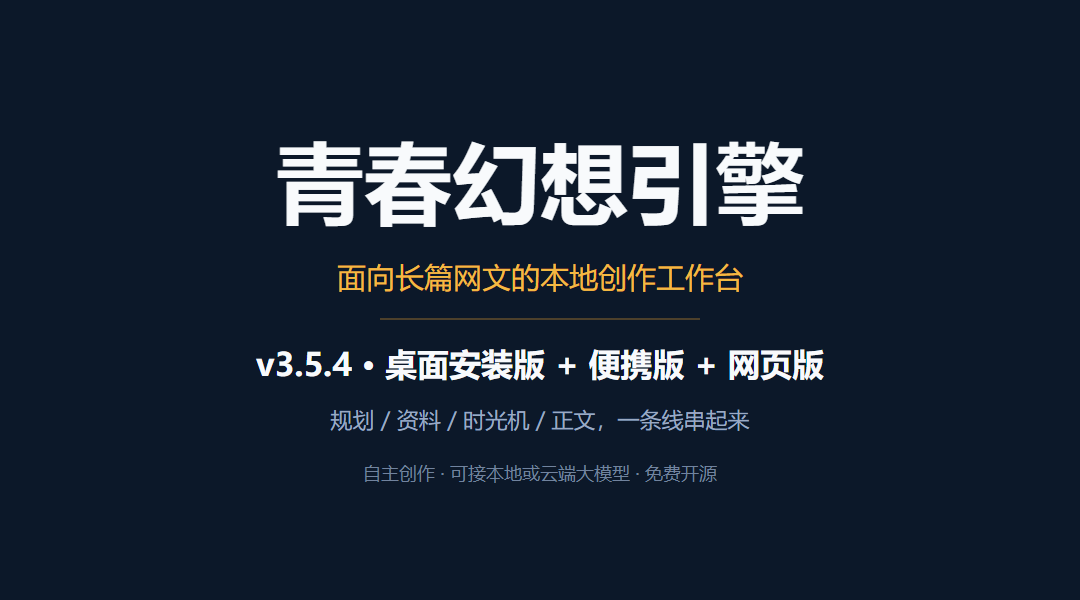
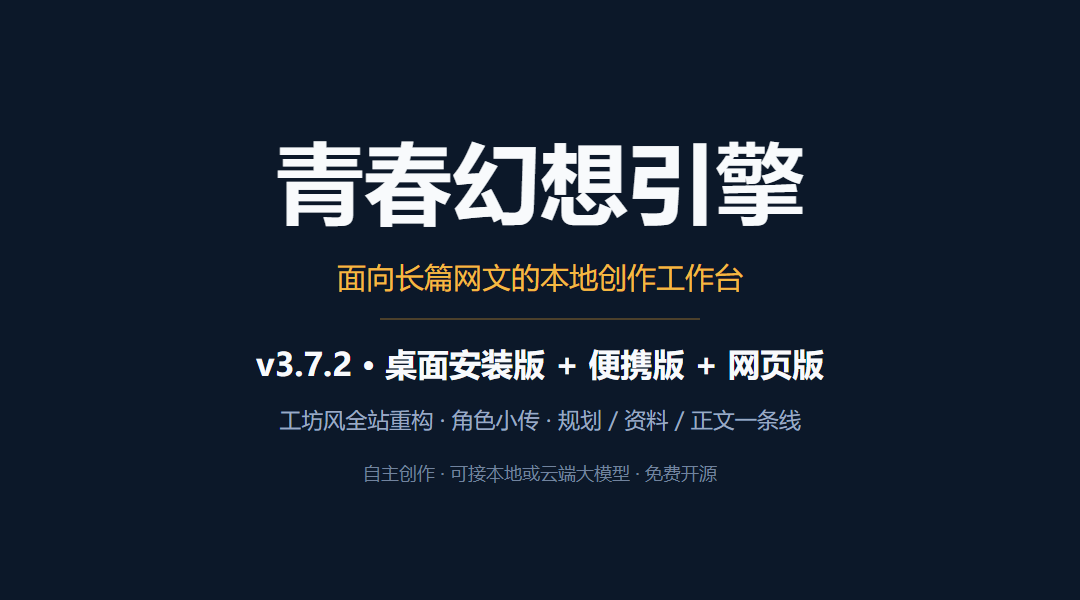
release(3.7.2): 修复六维审计项，更新 README、截图与 3.7.2 发布说明

Changed region(s): [[0.2444, 0.66, 0.7639, 0.72], [0.275, 0.57, 0.3361, 0.63]]

diff --git a/src/components/editor/NovelEditor.tsx b/src/components/editor/NovelEditor.tsx
@@ -611,35 +611,35 @@ export default function NovelEditor({ onStatsChange, onNavigate, onOpenSearch, p
               >
                 <Redo2 size={14} />
               </Button>
-              <Button variant="ghost" size="sm" aria-pressed={jieWenJiOpen}
+              <Button variant="bare" aria-pressed={jieWenJiOpen}
                 data-guide="jiewenji-entry"
                 onClick={() => setJieWenJiOpen(o => !o)}
-                className={`shrink-0 ${jieWenJiOpen ? '!bg-amber/12 !text-amber border !border-amber/30' : 'text-ink-300 hover:text-amber'}`}
+                className={`h-8 px-3 text-12 border shrink-0 ${jieWenJiOpen ? 'bg-amber/12 text-amber border-amber/30' : 'border-transparent text-ink-300 hover:text-amber hover:bg-ink-800/70'}`}
                 title="颉文姬 · AI 编辑：校对 / 综合诊断 / 选区改稿 / 审读 / 写作简报 / 本章设定补登（AI 增强需配模型）"
               >
                 <Wand2 size={14} /> 颉文姬
               </Button>
               {companionTools}
               <div className="w-px h-4 bg-ink-700/60 mx-0.5" />
-              <Button variant="ghost" size="sm" aria-pressed={showRefs} data-refs-trigger onClick={() => afterSearchSubmit(() => setShowRefs(o => !o))} className={`shrink-0 ${showRefs ? '!bg-amber/12 !text-amber border !border-amber/30' : 'text-ink-300 hover:text-amber'}`} title="本章资料：查看细纲、固定资料与正文引用">
+              <Button variant="bare" aria-pressed={showRefs} data-refs-trigger onClick={() => afterSearchSubmit(() => setShowRefs(o => !o))} className={`h-8 px-3 text-12 border shrink-0 ${showRefs ? 'bg-amber/12 text-amber border-amber/30' : 'border-transparent text-ink-300 hover:text-amber hover:bg-ink-800/70'}`} title="本章资料：查看细纲、固定资料与正文引用">
                 <Users size={14} /> 本章资料
               </Button>
               {secondaryTools}
-              <Button variant="ghost" size="sm" aria-pressed={searchVisible || searchDrawer}
+              <Button variant="bare" aria-pressed={searchVisible || searchDrawer}
                 onClick={() => afterSearchSubmit(() => {
                   if (showRefs) setShowRefs(false)
                   else if (!searchFits) setSearchDrawer(true)
                   else setShowSearch(!showSearch)
                 })}
-                className={`shrink-0 ${searchVisible || searchDrawer ? '!text-ink-100 !bg-ink-800/60' : 'text-ink-300'}`}
+                className={`h-8 px-3 text-12 border shrink-0 ${searchVisible || searchDrawer ? 'text-ink-100 bg-ink-800/60 border-transparent' : 'border-transparent text-ink-300 hover:text-ink-100 hover:bg-ink-800/70'}`}
                 title={showRefs ? '收起本章资料并恢复设定检索栏' : !searchFits ? '打开设定检索' : showSearch ? '隐藏设定检索栏' : '显示设定检索栏'}>
                 {/* 🔴 2026-11-15：lucide 的命名与箭头方向相反 —— PanelRightClose 实际画的是「→」，
                     PanelRightOpen 画的是「←」。按作者口径：展开时给「←」（点它收起），隐藏时给「→」（点它展开）。 */}
                 {searchVisible ? <PanelRightOpen size={14} /> : <PanelRightClose size={14} />} 设定检索
               </Button>
-              <Button variant="ghost" size="sm" aria-pressed={focusMode}
+              <Button variant="bare" aria-pressed={focusMode}
                 onClick={() => afterSearchSubmit(() => setFocusMode(!focusMode))}
-                className={`shrink-0 ${focusMode ? '!bg-amber/12 !text-amber border !border-amber/30' : 'text-ink-300'}`}
+                className={`h-8 px-3 text-12 border shrink-0 ${focusMode ? 'bg-amber/12 text-amber border-amber/30' : 'border-transparent text-ink-300 hover:text-ink-100 hover:bg-ink-800/70'}`}
                 title={focusMode ? '退出专注模式' : '专注模式'}>
                 {focusMode ? <Minimize2 size={14} /> : <Maximize2 size={14} />} {focusMode ? '退出专注' : '专注'}
               </Button>

diff --git a/src/components/app/Sidebar.tsx b/src/components/app/Sidebar.tsx
@@ -364,15 +364,7 @@ export default function Sidebar({ activeTab, onNavigate, focusGroup, navMode = '
             <span className="text-11 font-semibold text-ink-400 tracking-wide truncate">
               {navMode === 'focus' ? focusGroup : '全部目录'}
             </span>
-            <Button
-              variant="ghost"
-              size="xs"
-              onClick={onToggleNavMode}
-              title={navMode === 'focus' ? '展开全部功能目录' : '仅看当前所选分组'}
-              className="!h-5 !px-1.5 !text-10 text-ink-400 hover:text-ink-100 shrink-0"
-            >
-              {navMode === 'focus' ? '全部目录' : '仅当前组'}
-            </Button>
+            <Button variant="bare" onClick={onToggleNavMode} title={navMode === 'focus' ? '展开全部功能目录' : '仅看当前所选分组'} className="h-5 px-1.5 rounded-md text-10 text-ink-400 hover:text-ink-100 hover:bg-ink-800/70 shrink-0">{navMode === 'focus' ? '全部目录' : '仅当前组'}</Button>
           </div>
         )}
         {GROUPS.map(group => {
@@ -505,8 +497,8 @@ export default function Sidebar({ activeTab, onNavigate, focusGroup, navMode = '
         ref={flyoutRef}
         role="region"
         aria-label="界面与数据设置面板"
-        className={`fixed left-12 bottom-0 max-h-[min(78vh,calc(100vh-3.5rem))] rounded-tr-xl border-t border-r border-ink-700/80 bg-ink-900/98 backdrop-blur-md shadow-2xl ws-surface ws-flyout-right flex flex-col overflow-hidden ${toolsOpen ? '' : 'hidden'}`}
-        style={{ zIndex: Z.dropdown, width: collapsed ? '224px' : `min(${sidebar.size}px, ${foldVh('35vw')})`, minWidth: 224 }}
+        className={`fixed left-12 bottom-0 rounded-tr-xl border-t border-r border-ink-700/80 bg-ink-900/98 backdrop-blur-md shadow-2xl ws-surface ws-flyout-right flex flex-col overflow-hidden ${toolsOpen ? '' : 'hidden'}`}
+        style={{ zIndex: Z.dropdown, width: collapsed ? '224px' : `min(${sidebar.size}px, ${foldVh('35vw')})`, minWidth: 224, maxHeight: `min(${foldVh('78vh')}, calc(${foldVh('100vh')} - 3.5rem))` }}
       >
         <div className="h-10 shrink-0 px-3 border-b border-ink-700/70 flex items-center justify-between gap-2">
           <span className="text-12 font-semibold text-ink-200 tracking-wide">界面与数据</span>

diff --git a/README.md b/README.md
@@ -6,14 +6,15 @@
 
 **把世界观、角色、大纲、正文串成一条线的长篇创作工作台**
 
-桌面版（Windows）｜ 便携版（U 盘即走）｜ **网页版**（浏览器直接用） ｜ 当前源码版本 `v3.7.1`
+桌面版（Windows）｜ 便携版（U 盘即走）｜ **网页版**（浏览器直接用） ｜ 当前源码版本 `v3.7.2`
 
 📦 仓库：[Gitee](https://gitee.com/tgxy2026/youth-fantasy-engine)　｜　[GitHub](https://github.com/tgxy2026/youth-fantasy-engine)　｜　⬇ 下载：[Gitee Releases](https://gitee.com/tgxy2026/youth-fantasy-engine/releases)　｜　[GitHub Releases](https://github.com/tgxy2026/youth-fantasy-engine/releases)
 
 🖥 三种形态：**桌面安装版**（免 Node，双击安装）　｜　**便携版**（U 盘即走，需 Node.js）　｜　**网页版**（免安装，游客本地存 / 登录账号云端存）
 🌐 网页版直达：<https://youth-fantasy-engine.online>（浏览器打开就能写，不用装任何东西）
 🔗 3.3.2 起：**同一个账号，桌面、网页、换台电脑，接着上一句写**（云端作品库 · 逐本自动同步 · 冲突由你选 · 删了能捞回）
-📌 3.7.1：**给人物单开一页小传**（上层写传记 · 下层排节点轴 · 从状态演变一键提拔 · AI 整理只追加不覆盖）
+📌 3.7.2：**工坊风全站界面统一**（三形态暗黑曜石视觉 · 48px 顶栏对齐 · 左下角自适应设置浮窗）· **全站文案与 AI 提示词精修** · **软件内补全 3.7.x 更新说明**
+📌 3.7.1 起：**给人物单开一页小传**（上层写传记 · 下层排节点轴 · 从状态演变一键提拔 · AI 整理只追加不覆盖）
 📌 3.7.0 起：**大纲改了系统记得住**（未来章待重审 · 已写章只列建议 · 候选主动过期）· **物品与状态按章回溯** · **节奏曲线与投稿体检**（只摆事实，不评分）· **语音灵感**（需自备 OpenAI 兼容转写服务）
 
 </div>
@@ -91,6 +92,7 @@
 - **一键拆书** —— 丢一本参考书进去，自动抽取人物、关系、设定，做成你自己的素材库。
 - **酒馆模式** —— 让 AI 扮演你书里的角色跟你对话、推演剧情，用来找感觉、验人设。
 - **伴写建议** —— 正文编辑时给出「下一句可以怎么写」的建议，你采纳或忽略，它不会替你写。
+- **工坊风工作台界面**（3.7.2）—— 左侧图标轨 + 可收起目录侧栏 + 48px 顶栏横线统一对齐，左下角设置面板从左往右弹出且自适应不越界，网页登录页与全站 57 个页签保持一致视觉层级。
 - **角色小传，一个人一页**（3.7.1）—— 上层写完整传记、下层按「前传 / 第 N 章」排节点，带章号的节点能跳回原文；已有的状态演变可以一键提拔成节点，AI 整理只追加、不覆盖。
 - **大纲改了，后面会提醒你**（3.7.0）—— 总纲 / 卷纲 / 细纲改动后，未开写的章纲打「待重审」并附改前改后片段；已写章只列建议复核，系统不动你的章纲。
 - **物品与状态能按章回溯**（3.7.0）—— 物品流转必须带正文原句才能记账，人物状态变化留旧值，随时能问「第 N 章时是什么状态」。
@@ -182,7 +184,7 @@ npm run build:desktop  # 产物输出到 release/ 目录
 
 ## 升级与数据迁移
 
-### 当前版本（3.4.x – 3.6.x → 3.7.0）：直接覆盖安装
+### 当前版本（3.4.x – 3.7.1 → 3.7.2）：直接覆盖安装
 
 - **桌面安装版**：直接覆盖安装。程序数据在独立目录（`%APPDATA%\youth-fantasy-engine`），不会被安装包覆盖；
 - **便携版**：解压新包后，把旧包的 `data/` 目录整体拷进新包同级位置；
@@ -190,9 +192,9 @@ npm run build:desktop  # 产物输出到 release/ 目录
 
 3.4.0 起的章节收藏集、导出方案、命名快照都带旧数据默认值；3.4.1 只改提示词文本与审计工具，没有数据结构变更；3.4.2 的 `protocol` 是**可选字段**，旧模型配置读进来按原 `type` 自动补默认值。3.5.x 同样没有破坏性结构变更：3.5.0 的投稿广场与码字排行是**新增**能力（便携版不启用），3.5.1 只改前端引导与版式，3.5.2 的昵称冷却时间戳与 3.5.3 的排行日结口径只影响服务端记录，3.5.4–3.5.6 的 ACP 配置是按适配器**新写入**的独立设置。
 
-3.6.x 与 3.7.0 也是覆盖安装即可：3.6.0 的成果记录、拆书范围说明属于新增字段（指向不存在章节的成果会标 `missing` 并降为草稿，不静默丢弃）；3.6.1 起搜索替换、颉文姬面板位置都是界面层改动；3.6.2 的投稿合集与浏览量、3.6.3 的思考型模型采样参数处理只影响请求与展示；**3.7.0 的大纲级联标记、物品流转账本、状态演变记录、节奏指标与投稿体检结果都是新增存储**，旧项目打开时按需创建，读不到就按空处理、不会写坏原有内容。
+3.6.x 与 3.7.x 也是覆盖安装即可：3.6.0 的成果记录、拆书范围说明属于新增字段（指向不存在章节的成果会标 `missing` 并降为草稿，不静默丢弃）；3.6.1 起搜索替换、颉文姬面板位置都是界面层改动；3.6.2 的投稿合集与浏览量、3.6.3 的思考型模型采样参数处理只影响请求与展示；**3.7.0 的大纲级联标记、物品流转账本、状态演变记录、节奏指标与投稿体检结果都是新增存储**，旧项目打开时按需创建，读不到就按空处理、不会写坏原有内容；3.7.1 的角色小传与 3.7.2 的工坊风全站重构、文案与提示词精修均不改变原有存储格式。
 
-整体上从 3.4.x 升级到 3.7.0 属于覆盖安装即可，回退时旧版本读不懂的新字段只会被忽略，不会导致打不开。
+整体上从 3.4.x 升级到 3.7.2 属于覆盖安装即可，回退时旧版本读不懂的新字段只会被忽略，不会导致打不开。
 
 ### 历史迁移：2.x → 3.0.0（改名与数据目录）
 
@@ -230,7 +232,7 @@ npm run build:desktop  # 产物输出到 release/ 目录
 </tr>
 </table>
 
-> 截图拍摄于 3.4.0 正式版、软件内置的示范项目《吞天神脉》，实机截取、未做美化。3.5.0 起的「投稿广场」页签、3.5.4 起的 ACP 设置，以及 3.7.0 的**页签页头统一**（标题 20px / 半粗、说明 13px 单行省略、吸顶浅底与细分隔线）都未出现在图中，界面细节请以当前版本为准。
+> 以上截图拍摄于 3.7.2 正式版工坊风界面、软件内置示范项目《吞天神脉》，实机截取、未做美化。不同主题与窗口缩放比例下细节会随设定自适应调整。
 
 ---
 
@@ -420,14 +422,15 @@ youth-fantasy-engine/
 | **3.6.3** | **接思考型模型不再被参数卡死**：Kimi `kimi-k2.* / kimi-k3`、o1 / gpt-5 / deepseek-r1 这类把采样参数锁死的模型，本软件此前不管接谁都带温度，于是 `400 invalid temperature`。三层防线：**按模型名识别**（命中即不发温度 / top_p / 惩罚，而不是改成 1）+ **作者开关**（模型编辑里可手动勾「不发送采样参数」）+ **会话记忆**（撞一次 400 后本会话记住，不再每次都多打一次）。**数据格式没有变化**，覆盖安装即可。详见 [3.6.3 更新说明](docs/归档/3.6/3.6.3-更新说明-2026-11-23.md)。 |
 | **3.7.0** | **正史变了，系统记得住**：**大纲改动 → 未来章待重审**（附「改前 → 改后」引用片段，核对完点「已处理」；系统不改你的章纲）+ **已写章只列建议** + **候选 / 报告主动过期**（正文、细纲、本章固定资料任一变化就标「已过期」并写原因，只提示不自动改卡）+ **物品流转账本**（必须带正文原句才能勾选写入，图鉴物品新增「流转记录」）+ **状态演变按章回溯**（旧值留痕，`stateAt` 回溯到第 N 章）+ **全书逐章节奏曲线**（字数 / 对话占比 / 段长 / 距上个爽点，不合成总分、不排名次）+ **投稿体检一页**（汇总已跑过的结论，没跑过的写「未跑」，可存 JSON）+ **语音灵感**（需自备 OpenAI 兼容 `/audio/transcriptions`，音频不留存）+ EPUB 导出含未分卷章节 + 页签页头统一。⚠ 语音转写真机仍需你自备可用 Key。详见 [3.7.0 更新说明](docs/归档/3.7/3.7.0-更新说明-2026-11-23.md)。 |
 | **3.7.1** | **给人物单开一页小传**：角色管理下新增「**角色小传**」页签（默认勾选，可在项目设置里取消）—— 上层小传正文随便分段，下层「重要节点事件轴」分「开篇前（前传）」与「正文第 N 章」，前传节点可手动调序、带章号节点按章号升序且能点「原文」跳回那一章；已有 **3.7.0 状态演变可零消耗提拔**成节点，AI 从正文整理 / 颉文姬「整理」抽出里程碑候选**只追加不覆盖**，AI 起草与续写只出预览，单角色可导出 Markdown；**图鉴详情面板可直接编辑跨表与角色关联**、保密等级每个选项补了说明；角色小传与角色关系的布局与按钮规范统一（带文字按钮不再用幽灵样式）、节点类型支持自定义、示范项目补齐 11 名角色小传；修掉角色卡跳转与选择逻辑、按别称搜索时与小传条目对不上且折叠状态错乱。**数据格式没有变化**，覆盖安装即可。详见 [3.7.1 更新说明](docs/归档/3.7/3.7.1-更新说明-2026-11-25.md)。 |
+| **3.7.2** | **工坊风全站界面统一 + 全项目文案与内置 AI 提示词精修 + 软件内更新说明补全**：三形态（桌面 / 便携 / 网页）包括网页版登录 / 重置密码页全面接入暗黑曜石工坊风体系；左侧图标轨、可收起目录侧栏与编辑区顶部横线齐平到 `48px` 基准；左下角「界面与数据」设置窗改为从左往右弹出且宽度自适应不越界；「关于打赏」改为对称铺满布局；统一全站 57 页签页头按钮高度与对比度并完成多缩放比例复核；全面纠偏与润色全站 UI 文案，并结合当前实践升级去 AI 味、校对、审计、颉文姬、改写、角色小传等核心内置 AI 提示词；补全软件内 3.7.0 / 3.7.1 / 3.7.2 版本更新说明；六维 + 全量审计修掉 `foldVh`、`variant="bare"` 与入口探针。**数据格式没有变化**，覆盖安装即可。详见 [3.7.2 更新说明](docs/归档/3.7/3.7.2-更新说明-2026-11-25.md)。 |
 
-### 3.7.1 本版重点（一个人一页 · 从旧状态长出节点 · 只追加不覆盖）
+### 3.7.2 本版重点（工坊风全站统一 · 文案与提示词精修 · 内置更新说明补全）
 
-- ⭐ **角色小传：上层写传、下层排节点**：角色管理下新增页签（默认勾选，可在项目设置里取消）。上层是小传正文，随便分段写完整人物传记；下层「重要节点事件轴」分「开篇前（前传）」与「正文第 N 章」两段 —— 前传节点可手动上移下移，带章号的节点按章号自动对齐，点「原文」直接跳回那一章。
-- ⭐ **内容从三处来，都不覆盖你写的**：① 已有的 3.7.0 状态演变可**零消耗提拔**成节点；② 「AI 从正文整理节点」或颉文姬「整理」抽出里程碑候选，勾选后**只追加**；③ 「AI 起草 / 续写小传」只生成预览，由你决定追加、替换还是放弃。单角色可导出 Markdown。
-- ⭐ **图鉴详情能直接改关联**：跨表关联与角色关联在详情面板里就能改，不用绕回表格页签改单元格；保密等级每个选项都补了说明，选之前能看清差别。
-- ⭐ **顺带修掉的**：角色小传与角色关系的布局、按钮规范统一（带文字的按钮不再用幽灵样式）；节点类型支持自定义；示范项目补齐 11 名角色完整小传；修掉角色卡跳转与选择逻辑、按别称搜索时与小传条目对不上且折叠状态错乱。
-- 📌 **验证与边界**：类型检查与 lint 通过、全量单测 **524/524**、六维 + 全量审计 `complete`（1003 个文件 / 0 候选 / 26 项工具自检通过）、红线 11–15 全部 0、结构化提示词输出约束 P4 **0/42**；发布前三形态实机探针结果见发布记录。**未覆盖**：语音转写真机链路仍需你自备可用 Key；单个角色数十万字的超长传记未做性能压测。
+- ⭐ **工坊风全站界面统一**：项目中心、57 个创作页签与网页版登录 / 重置密码页全面对齐暗黑曜石工坊风；图标轨、侧栏与正文编辑区顶栏横线齐平在 `48px` 高度；左下角设置改为从左往右弹出并自适应侧栏宽度不越界；「关于打赏」页改对称铺满，全站页头按钮尺寸与视觉对比度统一收口。
+- ⭐ **全项目文案与内置 AI 提示词升级**：清理全站过时页签数量、版本描述与冗余措辞；升级去 AI 味、校对、一致性审计、颉文姬、改写与角色小传等内置提示词，兼顾可落地性与上下文约束，同时严格不破坏既有 JSON 输出结构。
+- ⭐ **软件内补全 3.7.x 更新说明**：将 3.7.0 / 3.7.1 / 3.7.2 版本改动摘要接入内置更新指引、关于页与更新提示弹窗，软件内直接可见版本演变细节。
+- ⭐ **质量审计与多比例复核**：全站验证不同窗口尺寸与缩放比例下的展示表现，完成六维 + 全量审计并修掉侧栏视口折算（`foldVh`）、5 处带文字按钮改用 `variant="bare"`，同步更新工作台入口探针。
+- 📌 **验证与边界**：类型检查 0、lint 0、全量单测 **524/524**、六维 + 全量审计 `complete`（0 候选 / 26 项工具自检通过 / 11 项运行证据全过）、红线 11–15 全部 0、结构化提示词输出约束 P4 **0/42**；发版产物一致性校验见发布记录。**未覆盖**：语音转写真机链路仍需你自备可用 Key；真实模型长篇盲评与超长人物传记未做压测。
 
 **更早版本的重点**：3.3.5 – 3.5.2 见 [`docs/归档/3.5/README-历史版本说明-归档-3.3.5-3.5.2.md`](docs/归档/3.5/README-历史版本说明-归档-3.3.5-3.5.2.md)，2.3.0 – 3.3.4 见 [`docs/归档/3.4/README-历史版本说明-归档.md`](docs/归档/3.4/README-历史版本说明-归档.md)（均为一字未改的原文）。
 

diff --git a/docs/归档/3.7/3.7.2-更新说明-2026-11-25.md b/docs/归档/3.7/3.7.2-更新说明-2026-11-25.md
@@ -1,0 +1,28 @@
+# 青春幻想引擎 3.7.2 更新说明（2026-11-25）
+
+> 从 3.7.1 直接升级，覆盖安装即可。本版以工坊风全站界面重构、全项目文案与 AI 提示词优化、软件内版本更新说明补全为主，**数据格式没有变化**。
+
+## 一、工坊风全站界面统一（三形态全覆盖）
+
+- **全站工坊深色视觉体系与基线对齐**：项目中心、57 个创作页签、网页版登录 / 注册 / 重置密码页统一接入暗黑曜石工坊风视觉语言；左侧图标轨、工作区目录侧栏、章节树与正文编辑器顶部横线对齐至同一 `48px` 基准高度。
+- **左下角设置面板改从左往右弹出**：点击左下角设置按钮弹出「界面与数据」设置面板，宽度自适应并贴合侧栏边界，不再越界遮挡工作区内容，也不再占用顶部搜索栏空间。
+- **全页签布局与按钮层级收口**：「关于打赏」页与「使用指南」改为与其他页签一致的对称铺满布局；全站页签右上角操作按钮统一高度与视觉对比度（带文字辅助按钮统一使用非幽灵层级），并对多窗口缩放与窄屏表现完成复核修正。
+
+## 二、全项目 UI 文案整理与内置 AI 提示词升级
+
+- **全站文案纠偏与表达润色**：梳理全项目界面文案与内置使用手册，更正过时页签数量、历史版本号与功能边界表述，统一提示词与报错说明的用语口径。
+- **内置 AI 提示词精修**：围绕当前主流长篇写作与审校实践，升级去 AI 味、校对、一致性审计、颉文姬、改写、角色小传起草/整理等核心内置提示词，强化上下文遵循、分步判断与可落地修改建议，同时严格保持既有 JSON 结构与解析键名不变。
+
+## 三、软件内「版本更新说明」补全
+
+- **修复软件内看不到 3.7.x 更新说明的问题**：将 3.7.0、3.7.1 与 3.7.2 的版本更新摘要完整接入内置使用指南（版本变化篇）、关于页与更新提示弹窗，软件内升级前即可直接查看改动详情。
+
+## 四、质量审计与修复
+
+- 完成六维 + 全量审计，修复侧栏面板高度视口折算（`foldVh`）、5 处带文字按钮误用 `variant="ghost"` 改为 `variant="bare"`，并更新工作台入口审计探针适配工坊风图标轨与可收起目录。
+
+## 验证与边界
+
+- 类型检查 0、lint 0、全量单测 **524/524**、六维 + 全量审计 `complete`（0 候选 / 26 项工具自检通过 / 11 项运行证据全过）、红线 11–15 全部 0、结构化提示词输出约束 P4 **0/42**。
+- 发布包一致性校验（`release-check`）在打包后全量验证。
+- **未覆盖**：语音转写真机链路仍需你自备可用 Key（本版只验录音入口与配置闸）；真实模型下的长篇盲评与单个角色数十万字超长传记未做压测。
